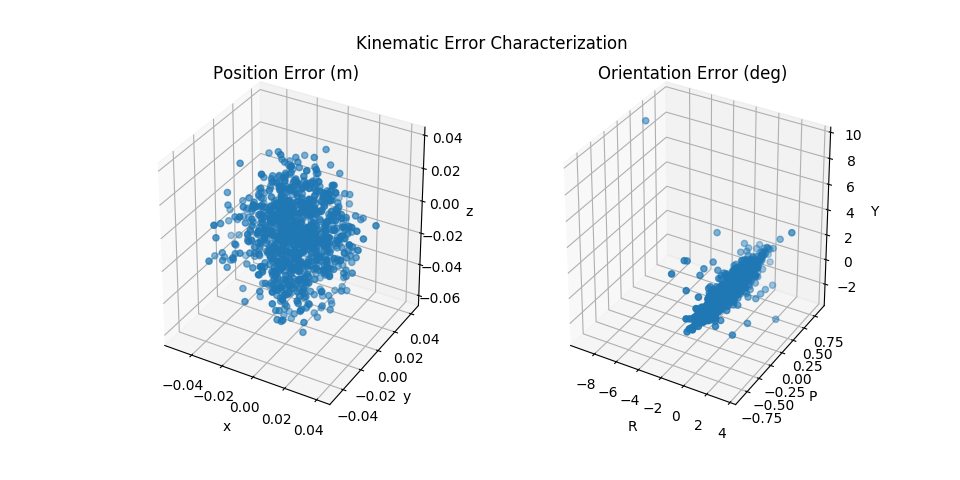
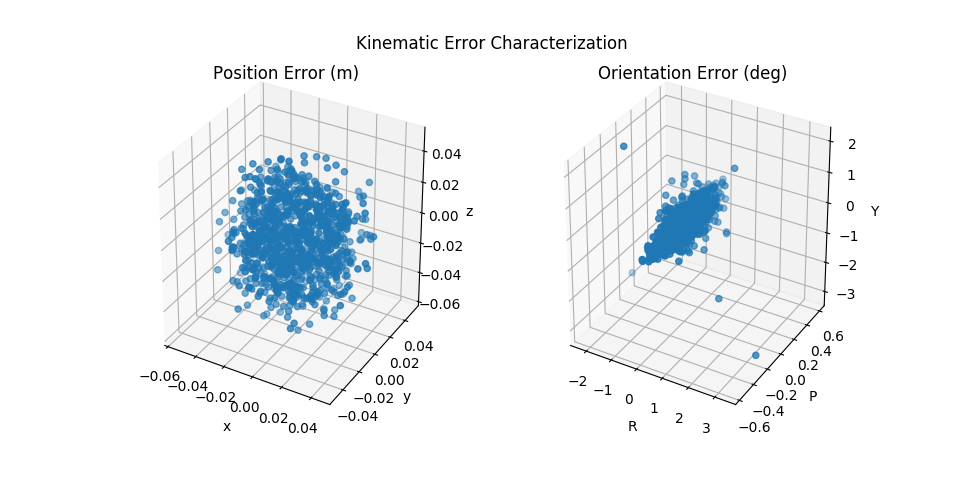
update figures and readme docs with newly calibrated data

diff --git a/st_r17_calibration/src/st_r17_calibration/dh_calibrator.py b/st_r17_calibration/src/st_r17_calibration/dh_calibrator.py
@@ -53,7 +53,9 @@ def qmul(qa, qb):
     vb = tf.ones_like(va) * vb
     rc = ra*rb - tf.reduce_sum(va*vb, axis=-1, keepdims=True)
     vc = ra*vb + rb*va + tf.cross(va,vb)
-    return tf.concat((vc,rc), axis=-1)
+    q = tf.concat((vc,rc), axis=-1)
+    q = q / tf.norm(q, keepdims=True)
+    return q
 
 def qlog(q):
     """ assume unit quaternion """

diff --git a/st_r17_calibration/README.md b/st_r17_calibration/README.md
@@ -31,23 +31,23 @@ Initial:
 
 &alpha;  | a        |d         | &Delta;q |
 :-------:|:--------:|:--------:|:--------:|
-3.06     | 5.13e-2  | -3.51e-1 | -1.76e-2 |
-1.68     | -1.34e-2 | 7.94e-3  | -1.61    |
--2.72e-2 | 3.74e-1  | 3.72e-2  | 2.53e-2  |
-4.51e-2  | 3.83e-1  | 2.02e-2  | 1.57     |
-1.53     | 1.81e-3  | 9.19e-2  | 1.15     |
--3.55e-2 | -2.13e-2 | 1.46e-1  | 3.17     |
+3.17e+00 |2.06e-02  |-3.86e-01 |7.46e-04  |
+1.67e+00 |-6.00e-02 |-5.33e-02 |-1.55e+00 |
+-8.37e-04|3.41e-01  |3.31e-03  |-8.81e-02 |
+-2.76e-03|3.80e-01  |-6.73e-03 |1.51e+00  |
+1.57e+00 |-4.57e-02 |4.83e-02  |1.13e+00  |
+-2.32e-02|6.54e-03  |1.61e-01  |3.12e+00  |
 
 Calibrated:
 
 &alpha;  | a        |d         | &Delta;q |
 :-------:|:--------:|:--------:|:--------:|
-3.14     | 2.85e-3  | -3.66e-1 | 2.53e-3  |
-1.57     | -2.64e-3 | -1.96e-2 | -1.60    |
--4.00e-3 | 3.79e-1  | 2.39e-2  | 1.79e-2  |
--2.27e-3 | 3.81e-1  | 2.21e-2  | 1.58     |
-1.57     | 1.77e-2  | 7.99e-02 | 1.16     |
--5.80e-4 | 1.88e-3  | 1.11e-1  | 3.17     |
+3.14e+00 |3.81e-03  |-3.59e-01 |-1.60e-03 |
+1.57e+00 |1.38e-03  |-2.30e-02 |-1.55e+00 |
+-1.92e-03|3.66e-01  |2.89e-02  |-1.01e-02 |
+-1.67e-03|3.68e-01  |1.23e-02  |1.56e+00  |
+1.57e+00 |-8.20e-03 |8.51e-02  |1.14e+00  |
+1.47e-03 |7.82e-03  |1.35e-01  |3.18e+00  |
 
 #### Kinematic Error
 
@@ -59,8 +59,7 @@ Mean Absolute Error over 1000 Samples:
 
 x (m)  | y (m) | z(m)  |R (deg)|P (deg)|Y (deg)|
 :-----:|:-----:|:-----:|:-----:|:-----:|:-----:|
-1.29e-2|1.21e-2|1.73e-2|3.10e-1|2.58e-1|4.54e-1|
-
+1.55e-2|1.45e-2|1.69e-2|2.49e-1|1.78e-1|2.37e-1|
 
 ## Run DH Calibration (Virtual)
 
@@ -81,7 +80,7 @@ x (m)  | y (m) | z(m)  |R (deg)|P (deg)|Y (deg)|
 
 2. Run the Calibrator.
     ```bash
-    rosrun st_r17_calibration dh_calibrator.py _num_markers:=4 _noise:=False
+    roslaunch st_r17_calibration calibrate.launch num_markers:=4 slop:=0.001
     ```
 
 ## Run DH Calibration (Gazebo + Vision):
